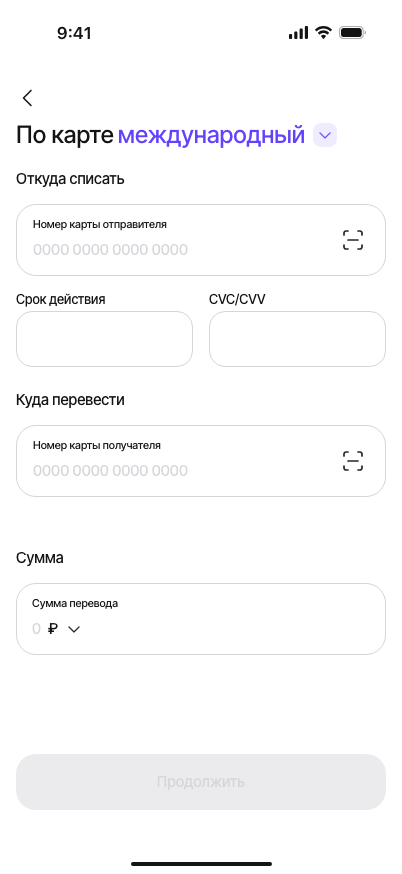
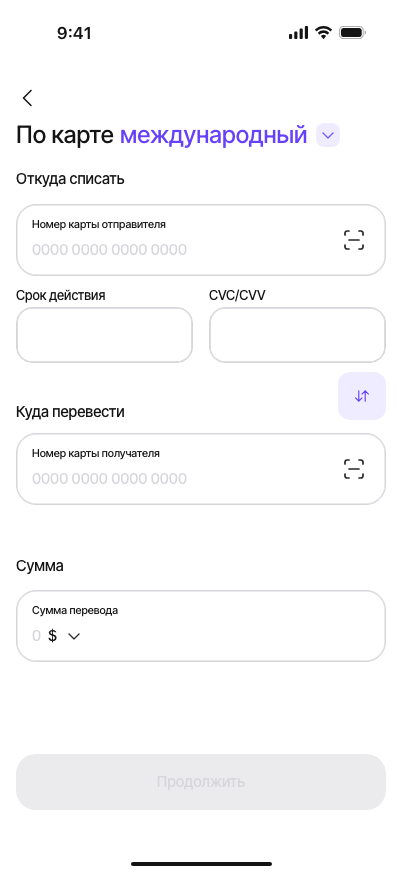
Align guest international transfer with updated Figma

diff --git a/src/styles.css b/src/styles.css
@@ -1411,7 +1411,11 @@ body:has(.guest-direction-sheet[open]) { overflow:hidden; }
 .guest-swap-cards:focus-visible { outline:2px solid #6641fb; outline-offset:2px; }
 .guest-swap-icon { display:flex; align-items:center; justify-content:center; width:16px; height:16px; transform:rotate(90deg) scaleY(-1); }
 .guest-swap-icon img { display:block; }
-.guest-international-transfer .guest-swap-cards { display:none; }
+.guest-international-transfer .guest-swap-cards { display:flex; top:calc(100% + 9px); }
+.guest-international-transfer .card-details-row { margin-top:12px; }
+.guest-international-transfer .destination-section { margin-top:40px; }
+.guest-international-transfer .destination-section>h2 { margin-bottom:12px; }
+.guest-international-transfer .inline-amount h2 { margin-bottom:12px; }
 
 /* Domestic empty and filled forms — Figma 138:5534 and 171:5848. */
 .guest-inline-source:not(.guest-international-transfer) .source-section { padding-top:7px; }
@@ -1446,3 +1450,5 @@ body:has(.guest-direction-sheet[open]) { overflow:hidden; }
 .guest-transfer .guest-transfer-title>span { gap:6.33px; }
 
 .guest-inline-source:not(.guest-international-transfer).has-quote .inline-amount h2 { margin-bottom:16px; }
+.guest-international-transfer .demo-card-suggestion { top:110px; }
+.guest-international-transfer .source-section>.demo-card-suggestion { top:121px; }

diff --git a/src/authorized-transfer.js b/src/authorized-transfer.js
@@ -481,6 +481,7 @@ export function createAuthorizedTransfer({ cards, card, recipient, transferKind,
     transferKind=kind;international=kind==='abroad';
     screen.classList.toggle('guest-international-transfer',international);
     screen.dataset.direction=kind;
+    if(!screen.querySelector('#guest-source').value&&!amountInput.value)amountCurrency=international?'USD':'RUB';
     refreshDemoSuggestions.forEach(refresh=>refresh());
     detectBank();updateQuote();
   };
